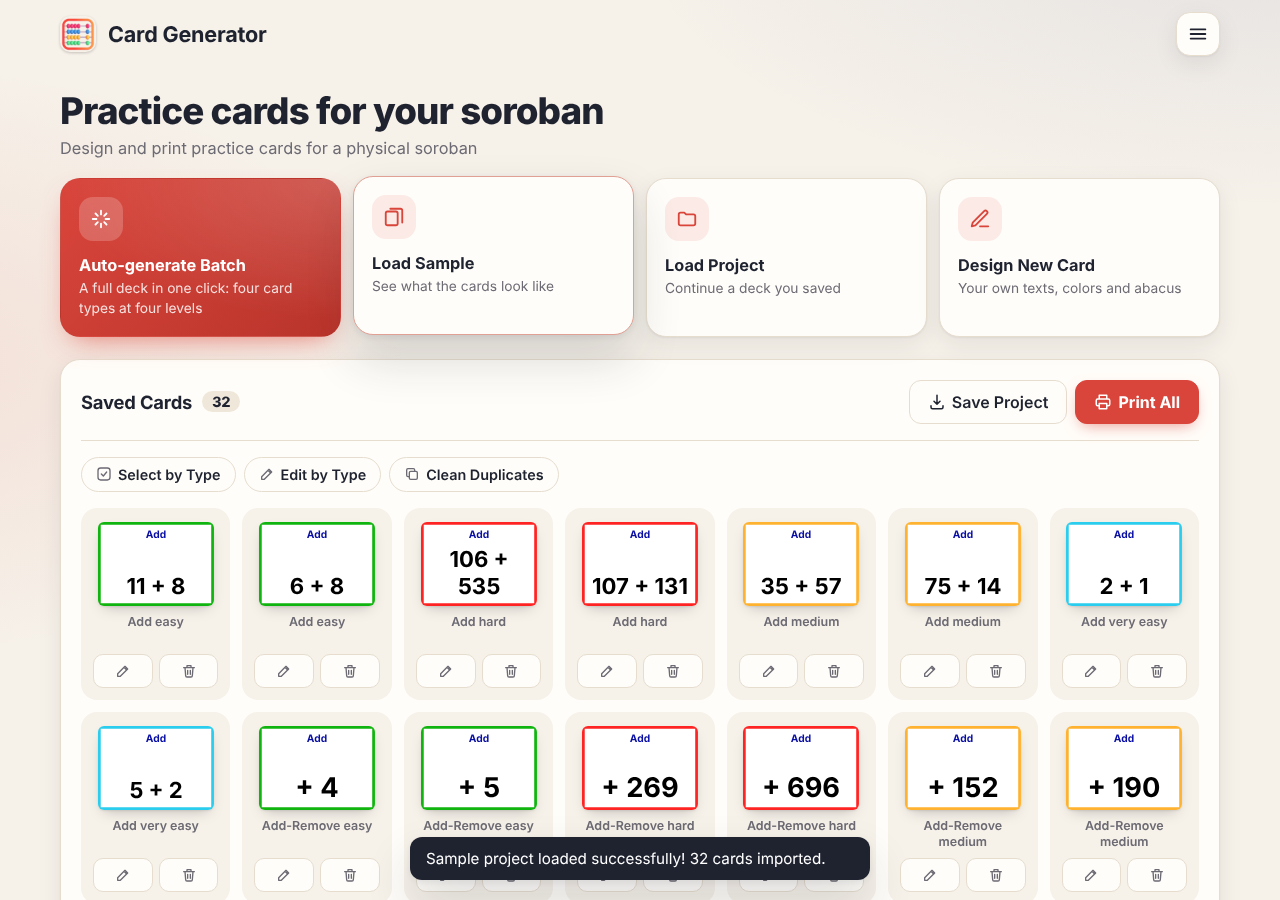
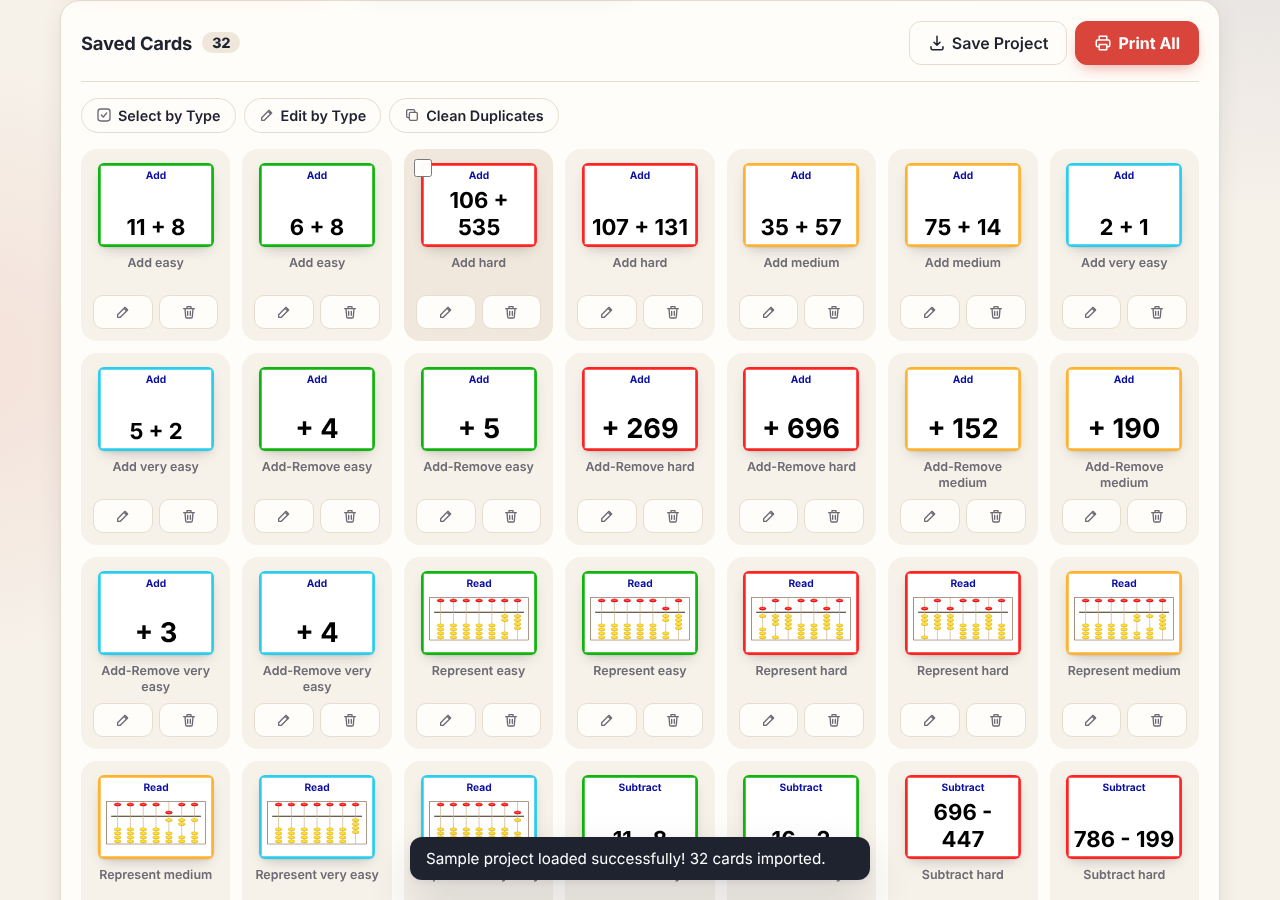
Only the upper beads are red, on the cards and in the simple abacus style
The cards' abacus and the game's simple style painted the upper beads yellow and
the first lower bead of the hundreds and hundred-thousands rods red. Upper beads
(worth 5) are now red and every lower bead (worth 1) yellow; the accent mechanism
is gone and the tests check the rule for every theme and for the card SVG.

diff --git a/src/cards/abacusSvg.js b/src/cards/abacusSvg.js
@@ -7,10 +7,11 @@ import { COLUMNS, LOWER_BEADS, numberToColumns } from '../core/abacus.js';
 const FRAME = '#5d3a1a';
 const BEAM = '#3d2812';
 const ROD = '#c9b18a';
-const BEAD = '#ffd700';
-const BEAD_OUTLINE = '#daa520';
-const ACCENT = '#ff0000';
-const ACCENT_OUTLINE = '#cc0000';
+// Upper beads (worth 5) are red; lower beads (worth 1) are yellow.
+const UPPER = '#ff0000';
+const UPPER_OUTLINE = '#cc0000';
+const LOWER = '#ffd700';
+const LOWER_OUTLINE = '#daa520';
 const BEAD_SCALE = 1.35;
 
 let gradientCount = 0;
@@ -18,7 +19,7 @@ let gradientCount = 0;
 function beadSvg(x, y, radius, fill, gradientId) {
   const rx = radius * BEAD_SCALE;
   const ry = rx * 0.45;
-  const outline = fill === ACCENT ? ACCENT_OUTLINE : BEAD_OUTLINE;
+  const outline = fill === UPPER ? UPPER_OUTLINE : LOWER_OUTLINE;
   const ellipse = (attributes, cx = x, cy = y, w = rx, h = ry) =>
     `<ellipse cx="${cx}" cy="${cy}" rx="${w}" ry="${h}" ${attributes}/>`;
 
@@ -64,18 +65,15 @@ export function abacusSvg(number, width, height) {
     parts.push(
       `<line x1="${x}" y1="2" x2="${x}" y2="${height - 2}" stroke="${ROD}" stroke-width="2"/>`,
     );
-    parts.push(beadSvg(x, column.upperActive ? dividerY - offset : top, radius, BEAD, gradientId));
+    parts.push(beadSvg(x, column.upperActive ? dividerY - offset : top, radius, UPPER, gradientId));
 
-    // Hundreds and hundred-thousands rods get a red first bead as a reading aid.
-    const fromRight = COLUMNS - 1 - i;
-    const accented = fromRight === 2 || fromRight === 5;
     const inactive = LOWER_BEADS - column.lowerActive;
     for (let j = 0; j < LOWER_BEADS; j++) {
       const y =
         j < column.lowerActive
           ? dividerY + offset + j * spacing
           : bottom - (inactive - 1 - (j - column.lowerActive)) * spacing;
-      parts.push(beadSvg(x, y, radius, j === 0 && accented ? ACCENT : BEAD, gradientId));
+      parts.push(beadSvg(x, y, radius, LOWER, gradientId));
     }
   });
 

diff --git a/tests/unit/abacusLayout.test.js b/tests/unit/abacusLayout.test.js
@@ -89,21 +89,15 @@ describe('abacus layout', () => {
 });
 
 describe('themes', () => {
-  it('colors upper and lower beads per theme', () => {
-    const upper = { col: 0, type: 'upper', index: 0 };
-    const lower = { col: 0, type: 'lower', index: 1 };
-    expect(beadColors(THEMES.classic, upper, 7).fill).not.toBe(
-      beadColors(THEMES.classic, lower, 7).fill,
-    );
-    expect(beadColors(THEMES.simple, upper, 7).fill).toBe(beadColors(THEMES.simple, lower, 7).fill);
-  });
-
-  it('marks the first bead of the hundreds and hundred-thousands rods in the simple theme', () => {
-    const accented = (col, index) =>
-      beadColors(THEMES.simple, { col, type: 'lower', index }, 7).fill;
-    expect(accented(4, 0)).toBe('#ff0000'); // hundreds (2 from the right)
-    expect(accented(1, 0)).toBe('#ff0000'); // hundred-thousands (5 from the right)
-    expect(accented(6, 0)).not.toBe('#ff0000');
-    expect(accented(4, 1)).not.toBe('#ff0000');
+  it('paints only the upper beads red in every theme', () => {
+    for (const theme of Object.values(THEMES)) {
+      for (let col = 0; col < 7; col++) {
+        const upper = beadColors(theme, { col, type: 'upper', index: 0 }).fill;
+        expect(upper).toMatch(/^#(c8283a|ff0000)$/);
+        for (let index = 0; index < 4; index++) {
+          expect(beadColors(theme, { col, type: 'lower', index }).fill).not.toBe(upper);
+        }
+      }
+    }
   });
 });

diff --git a/src/game/abacus/themes.js b/src/game/abacus/themes.js
@@ -9,7 +9,6 @@ export const THEMES = {
     beamDot: '#f5deb3',
     upper: { fill: '#c8283a', stroke: '#7d1020' },
     lower: { fill: '#2a2c33', stroke: '#0b0c0f' },
-    accent: null,
     // Double-cone beads, like the ones on a real soroban
     beadShape: 'bicone',
     beadScale: 1,
@@ -20,21 +19,14 @@ export const THEMES = {
     beam: '#b8956a',
     rod: '#c9b18a',
     beamDot: '#7a5a2e',
-    upper: { fill: '#ffd700', stroke: '#daa520' },
+    upper: { fill: '#ff0000', stroke: '#cc0000' },
     lower: { fill: '#ffd700', stroke: '#daa520' },
-    // The first lower bead of the hundreds and hundred-thousands rods is red, as a reading aid.
-    accent: { fill: '#ff0000', stroke: '#cc0000', rodsFromRight: [2, 5] },
     beadShape: 'flat',
     beadScale: 1.35,
   },
 };
 
-/** Fill/stroke for a bead under a theme. */
-export function beadColors(theme, bead, columnCount) {
-  if (bead.type === 'upper') return theme.upper;
-  const rodFromRight = columnCount - 1 - bead.col;
-  if (theme.accent && bead.index === 0 && theme.accent.rodsFromRight.includes(rodFromRight)) {
-    return theme.accent;
-  }
-  return theme.lower;
+/** Fill/stroke for a bead under a theme: upper beads (worth 5) and lower beads (worth 1). */
+export function beadColors(theme, bead) {
+  return bead.type === 'upper' ? theme.upper : theme.lower;
 }

diff --git a/tests/unit/cardsLayout.test.js b/tests/unit/cardsLayout.test.js
@@ -112,8 +112,12 @@ describe('abacus SVG', () => {
     expect((svg.match(/fill="none" stroke="#(?:daa520|cc0000)"/g) ?? []).length).toBe(35);
   });
 
-  it('marks the hundreds and hundred-thousands rods', () => {
-    expect((abacusSvg(0, 300, 150).match(/fill="#ff0000"/g) ?? []).length).toBe(2);
+  it('paints only the upper beads red', () => {
+    for (const n of [0, 1234567, 9999999]) {
+      const svg = abacusSvg(n, 300, 150);
+      expect((svg.match(/fill="#ff0000"/g) ?? []).length).toBe(7);
+      expect((svg.match(/fill="#ffd700"/g) ?? []).length).toBe(28);
+    }
   });
 
   it('clamps and sanitizes the number', () => {

diff --git a/src/game/abacus/renderer.js b/src/game/abacus/renderer.js
@@ -144,7 +144,7 @@ export class AbacusRenderer {
 
     for (const bead of beadTargets(columns, layout)) {
       const y = this.current.get(keyOf(bead)) ?? bead.y;
-      this.drawBead(bead.x, y, beadColors(theme, bead, layout.columnCount));
+      this.drawBead(bead.x, y, beadColors(theme, bead));
     }
   }
 

diff --git a/README.md b/README.md
@@ -29,7 +29,7 @@ An interactive **soroban** (Japanese abacus) for learning to read numbers and ca
 - **Keyboard**: Enter checks the answer and, once it is right, moves on to the next question.
 - **Your own questions**: type any operation (`23+45`, `12x4`, `84/7` all work) or any number to represent.
 - **Score**: solved questions, current streak and best streak (stored in your browser).
-- **Two abacus styles** (classic wood with double-cone red/black beads, like a real soroban, and a simple yellow one) and **ten celebration effects**
+- **Two abacus styles** (classic wood with double-cone red/black beads, like a real soroban, and a simple one with red upper and yellow lower beads) and **ten celebration effects**
   (from a tiny puff to dinosaurs, rainbows and "total madness"), plus "none" and a random surprise.
 - **Layout for every screen**: on computers and landscape tablets the abacus sits next to the controls; on phones the
   question sits above the abacus, the modes move to a bottom tab bar within reach of the thumb, and everything fits on
